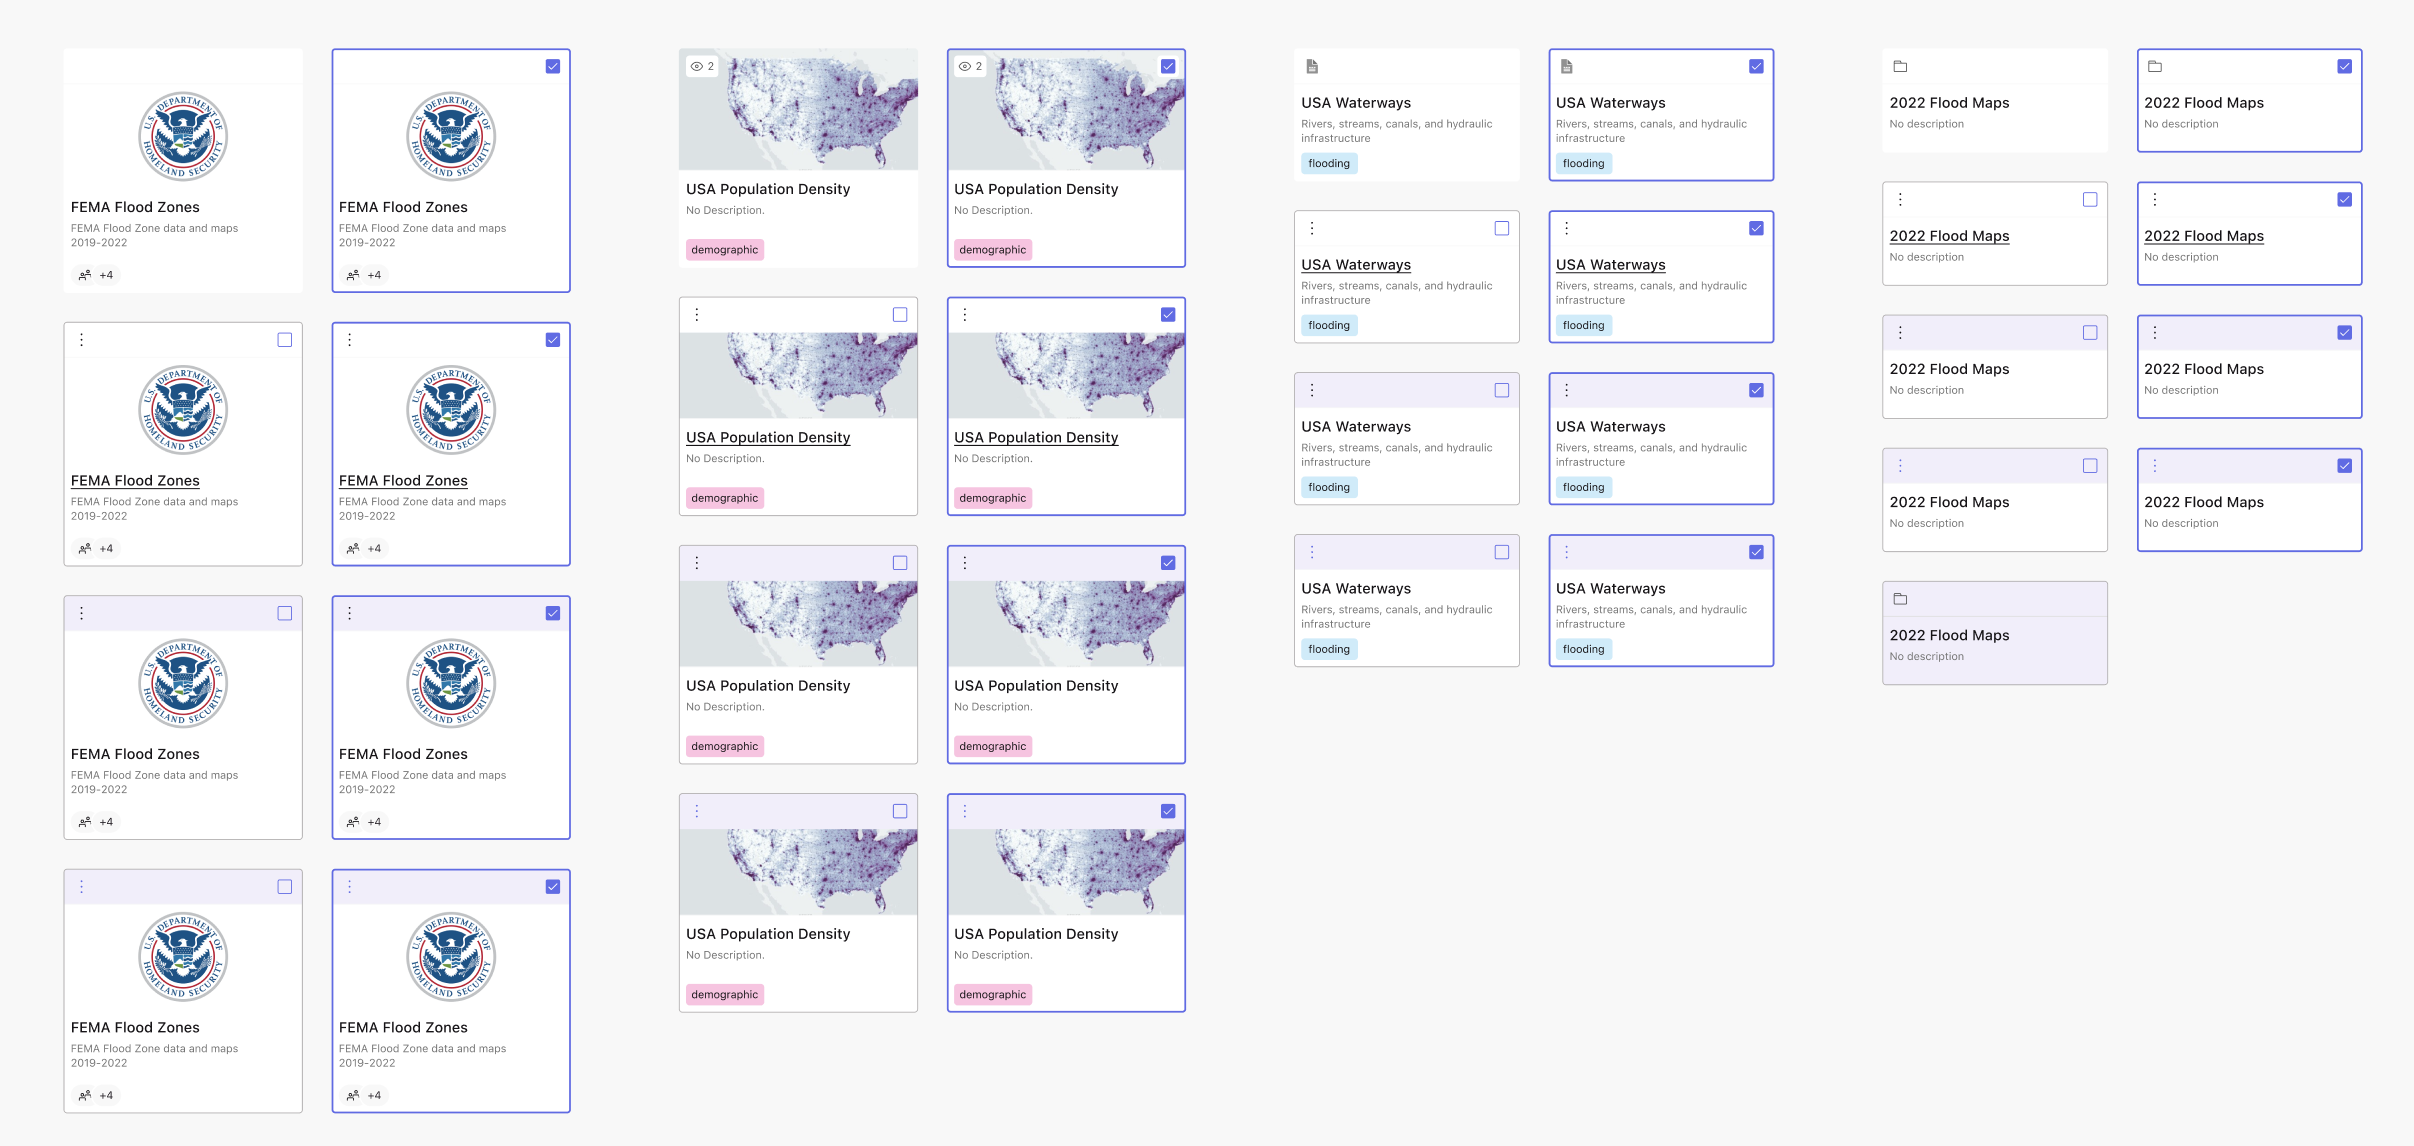
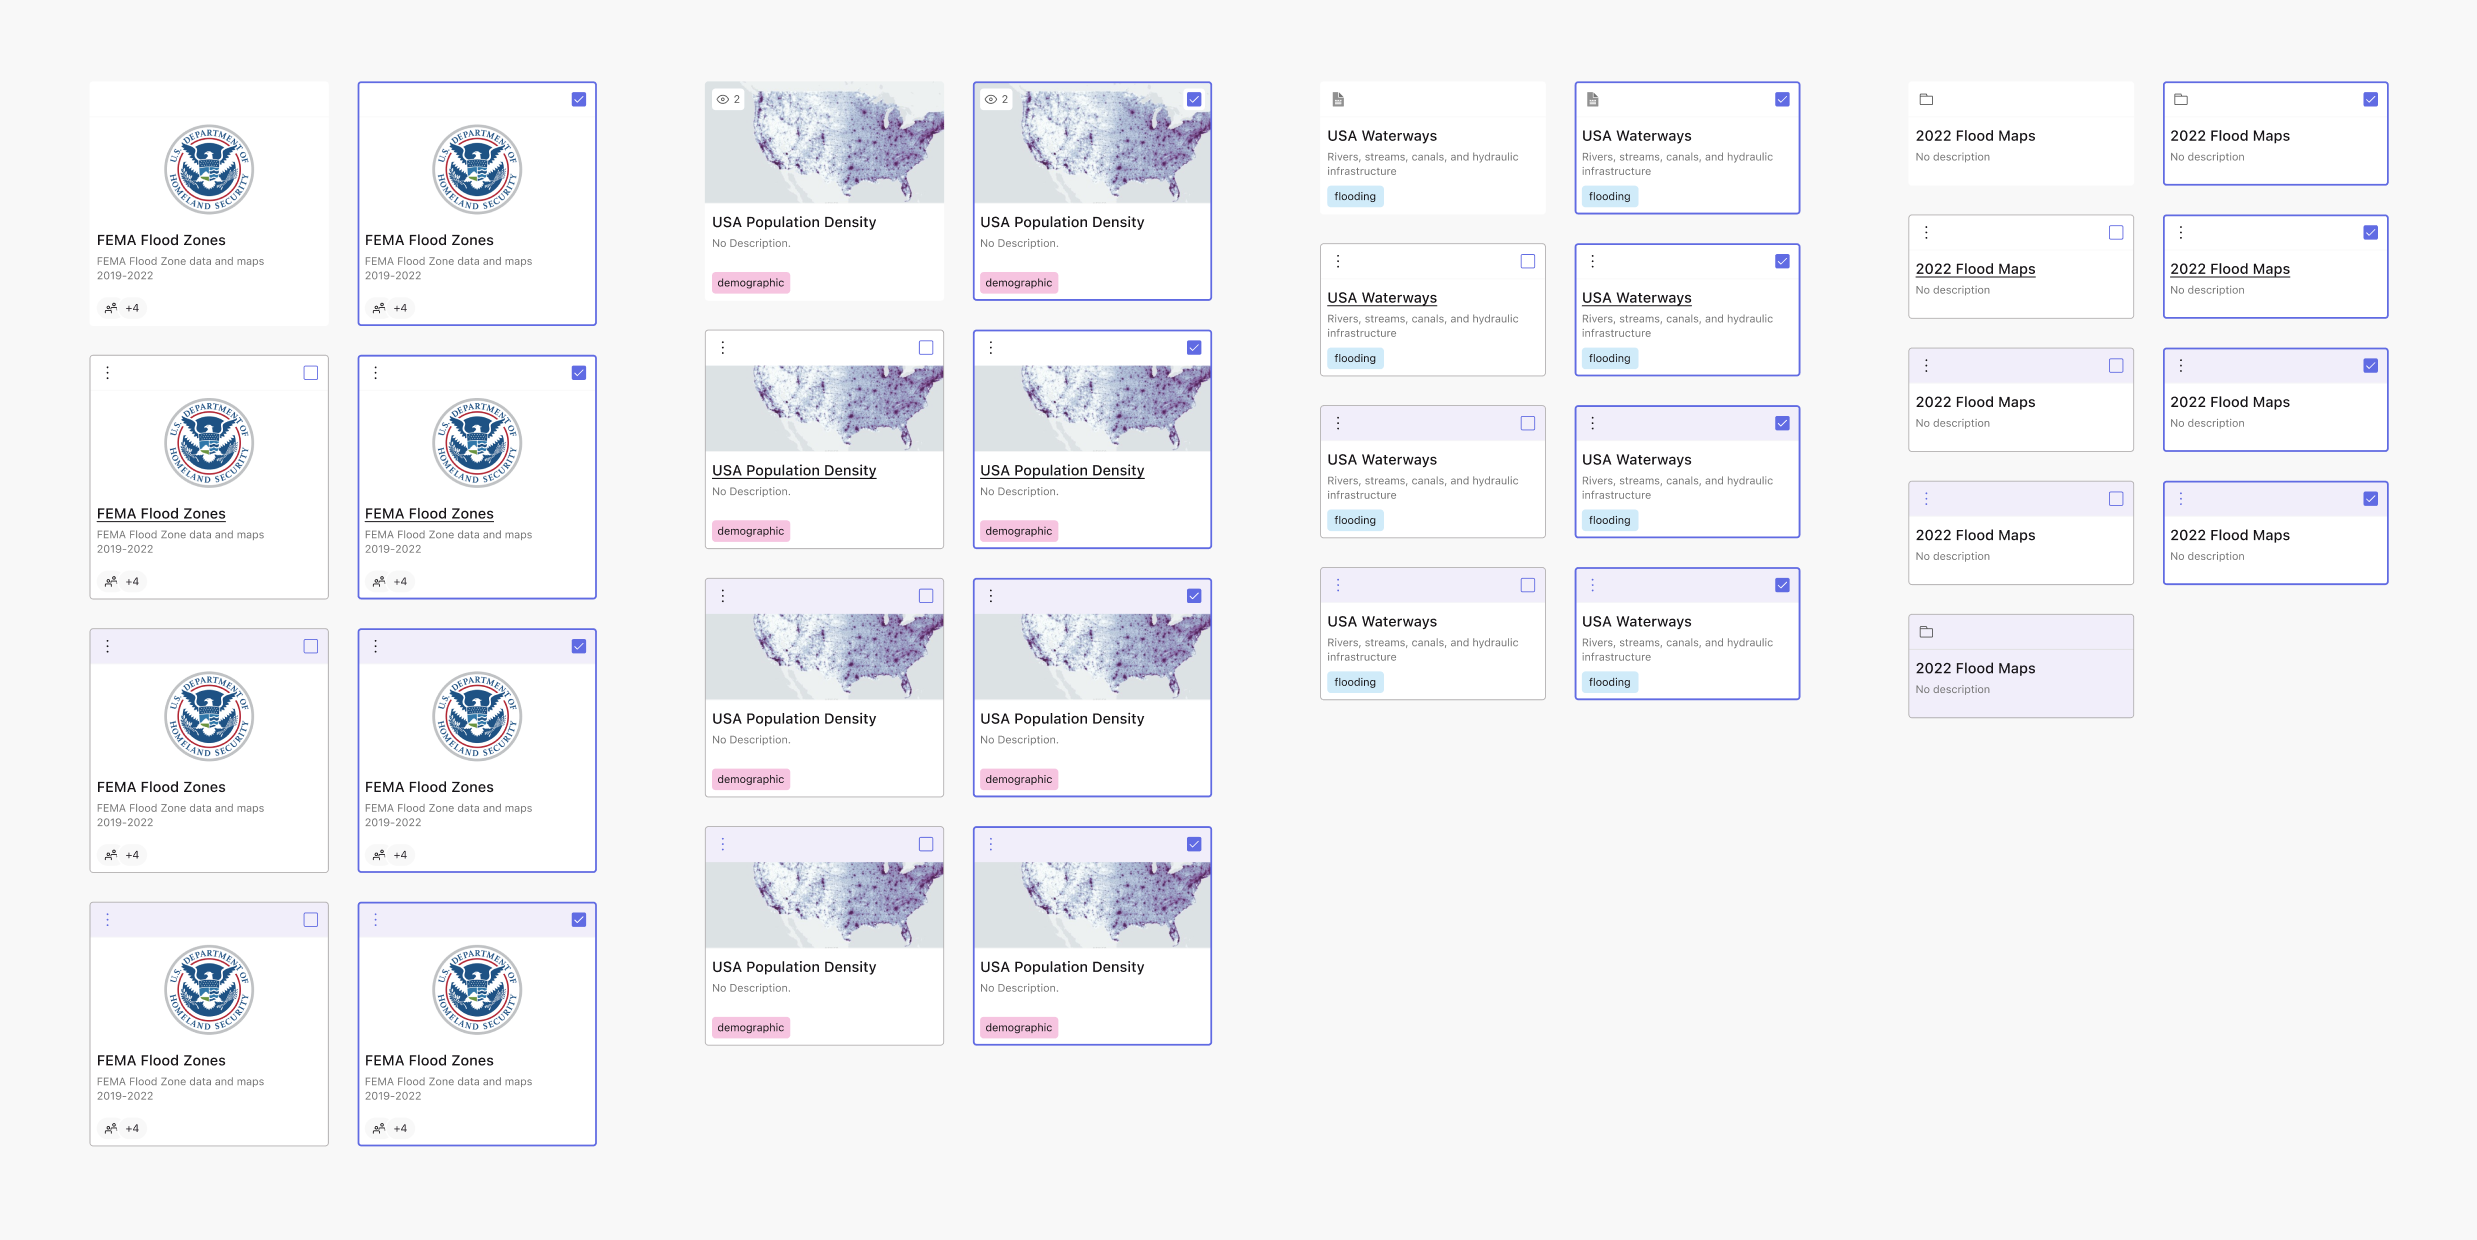
adding all cards image

diff --git a/projects.html b/projects.html
@@ -216,6 +216,9 @@
             <img class="img-med" src="images/card_edit.gif">
           </div>
         </div>
+          <div class="img-container">
+            <img class="img" src="images/all_card.png">
+          </div>
 <!--         <div class="img-container">
           <img class="img" src="images/carddesigns.png">
         </div> -->

diff --git a/insights.html b/insights.html
@@ -366,7 +366,7 @@
 
 
 
-<div class="flex column align-center no-bg padding-side full-width">
+<div class="flex column align-center padding-side full-width">
 
 <!--   <div class="project-cont padding-conty white-bg no-vert">
     <div class="divider-casestudy">
